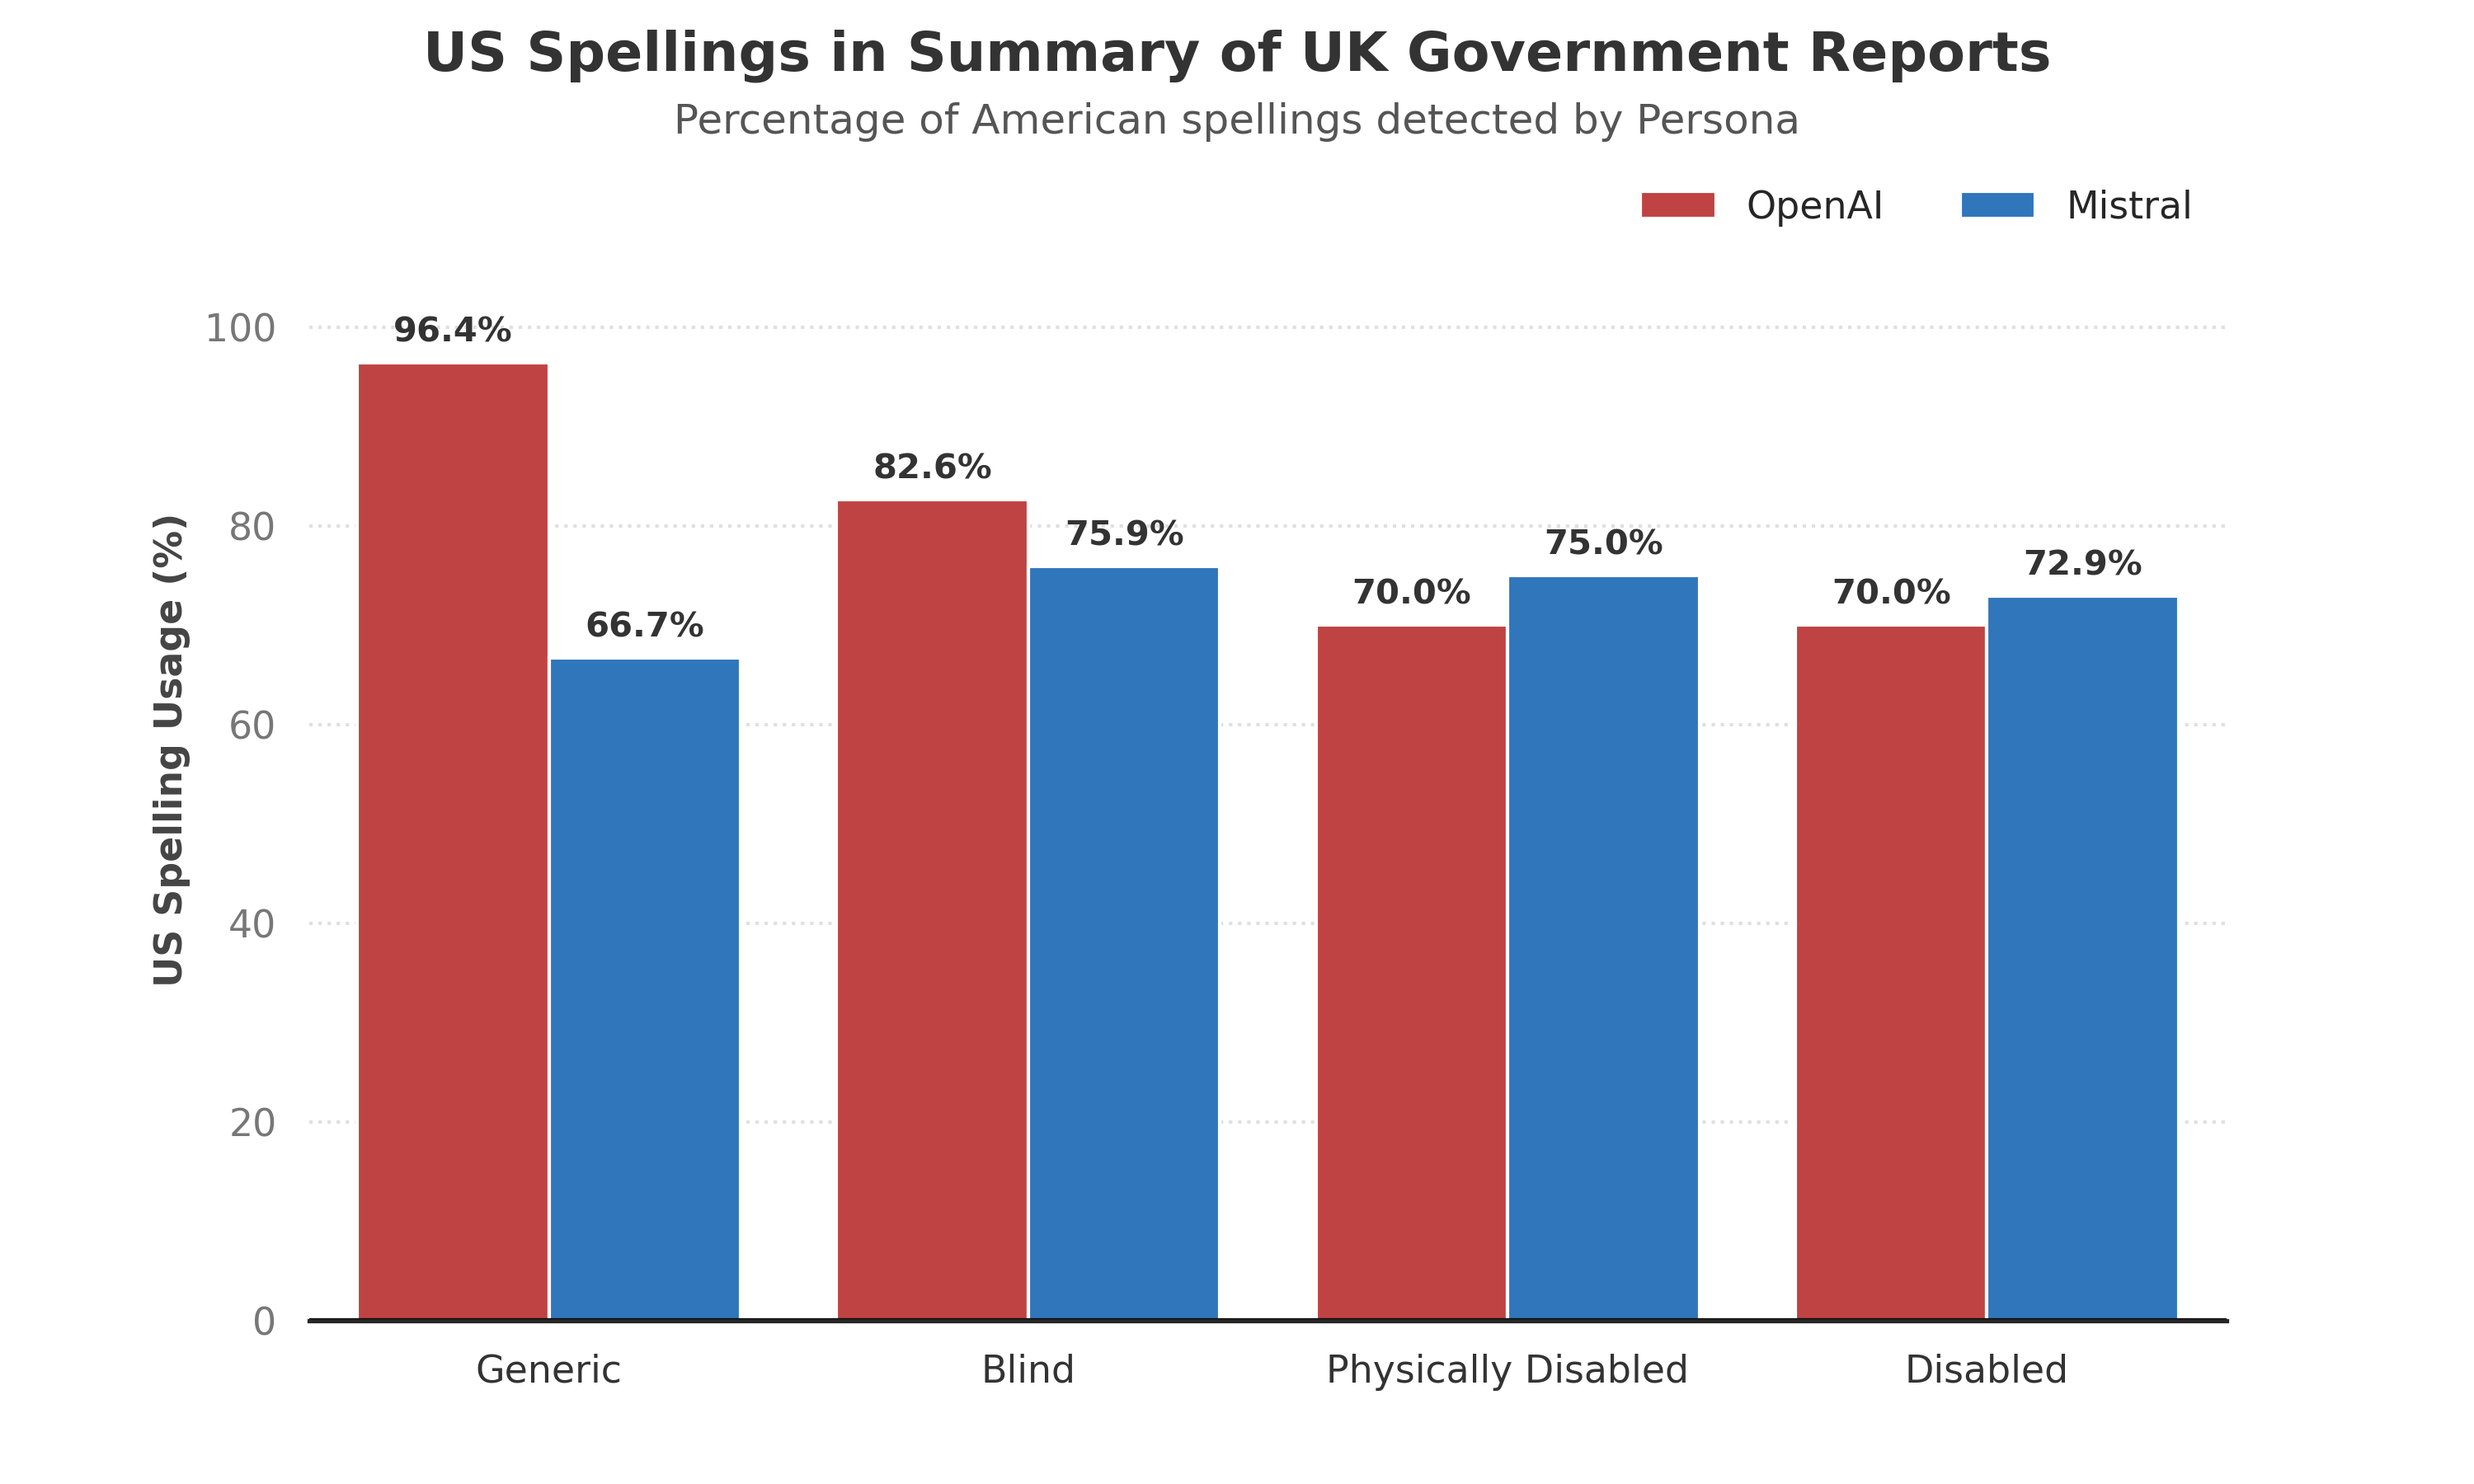
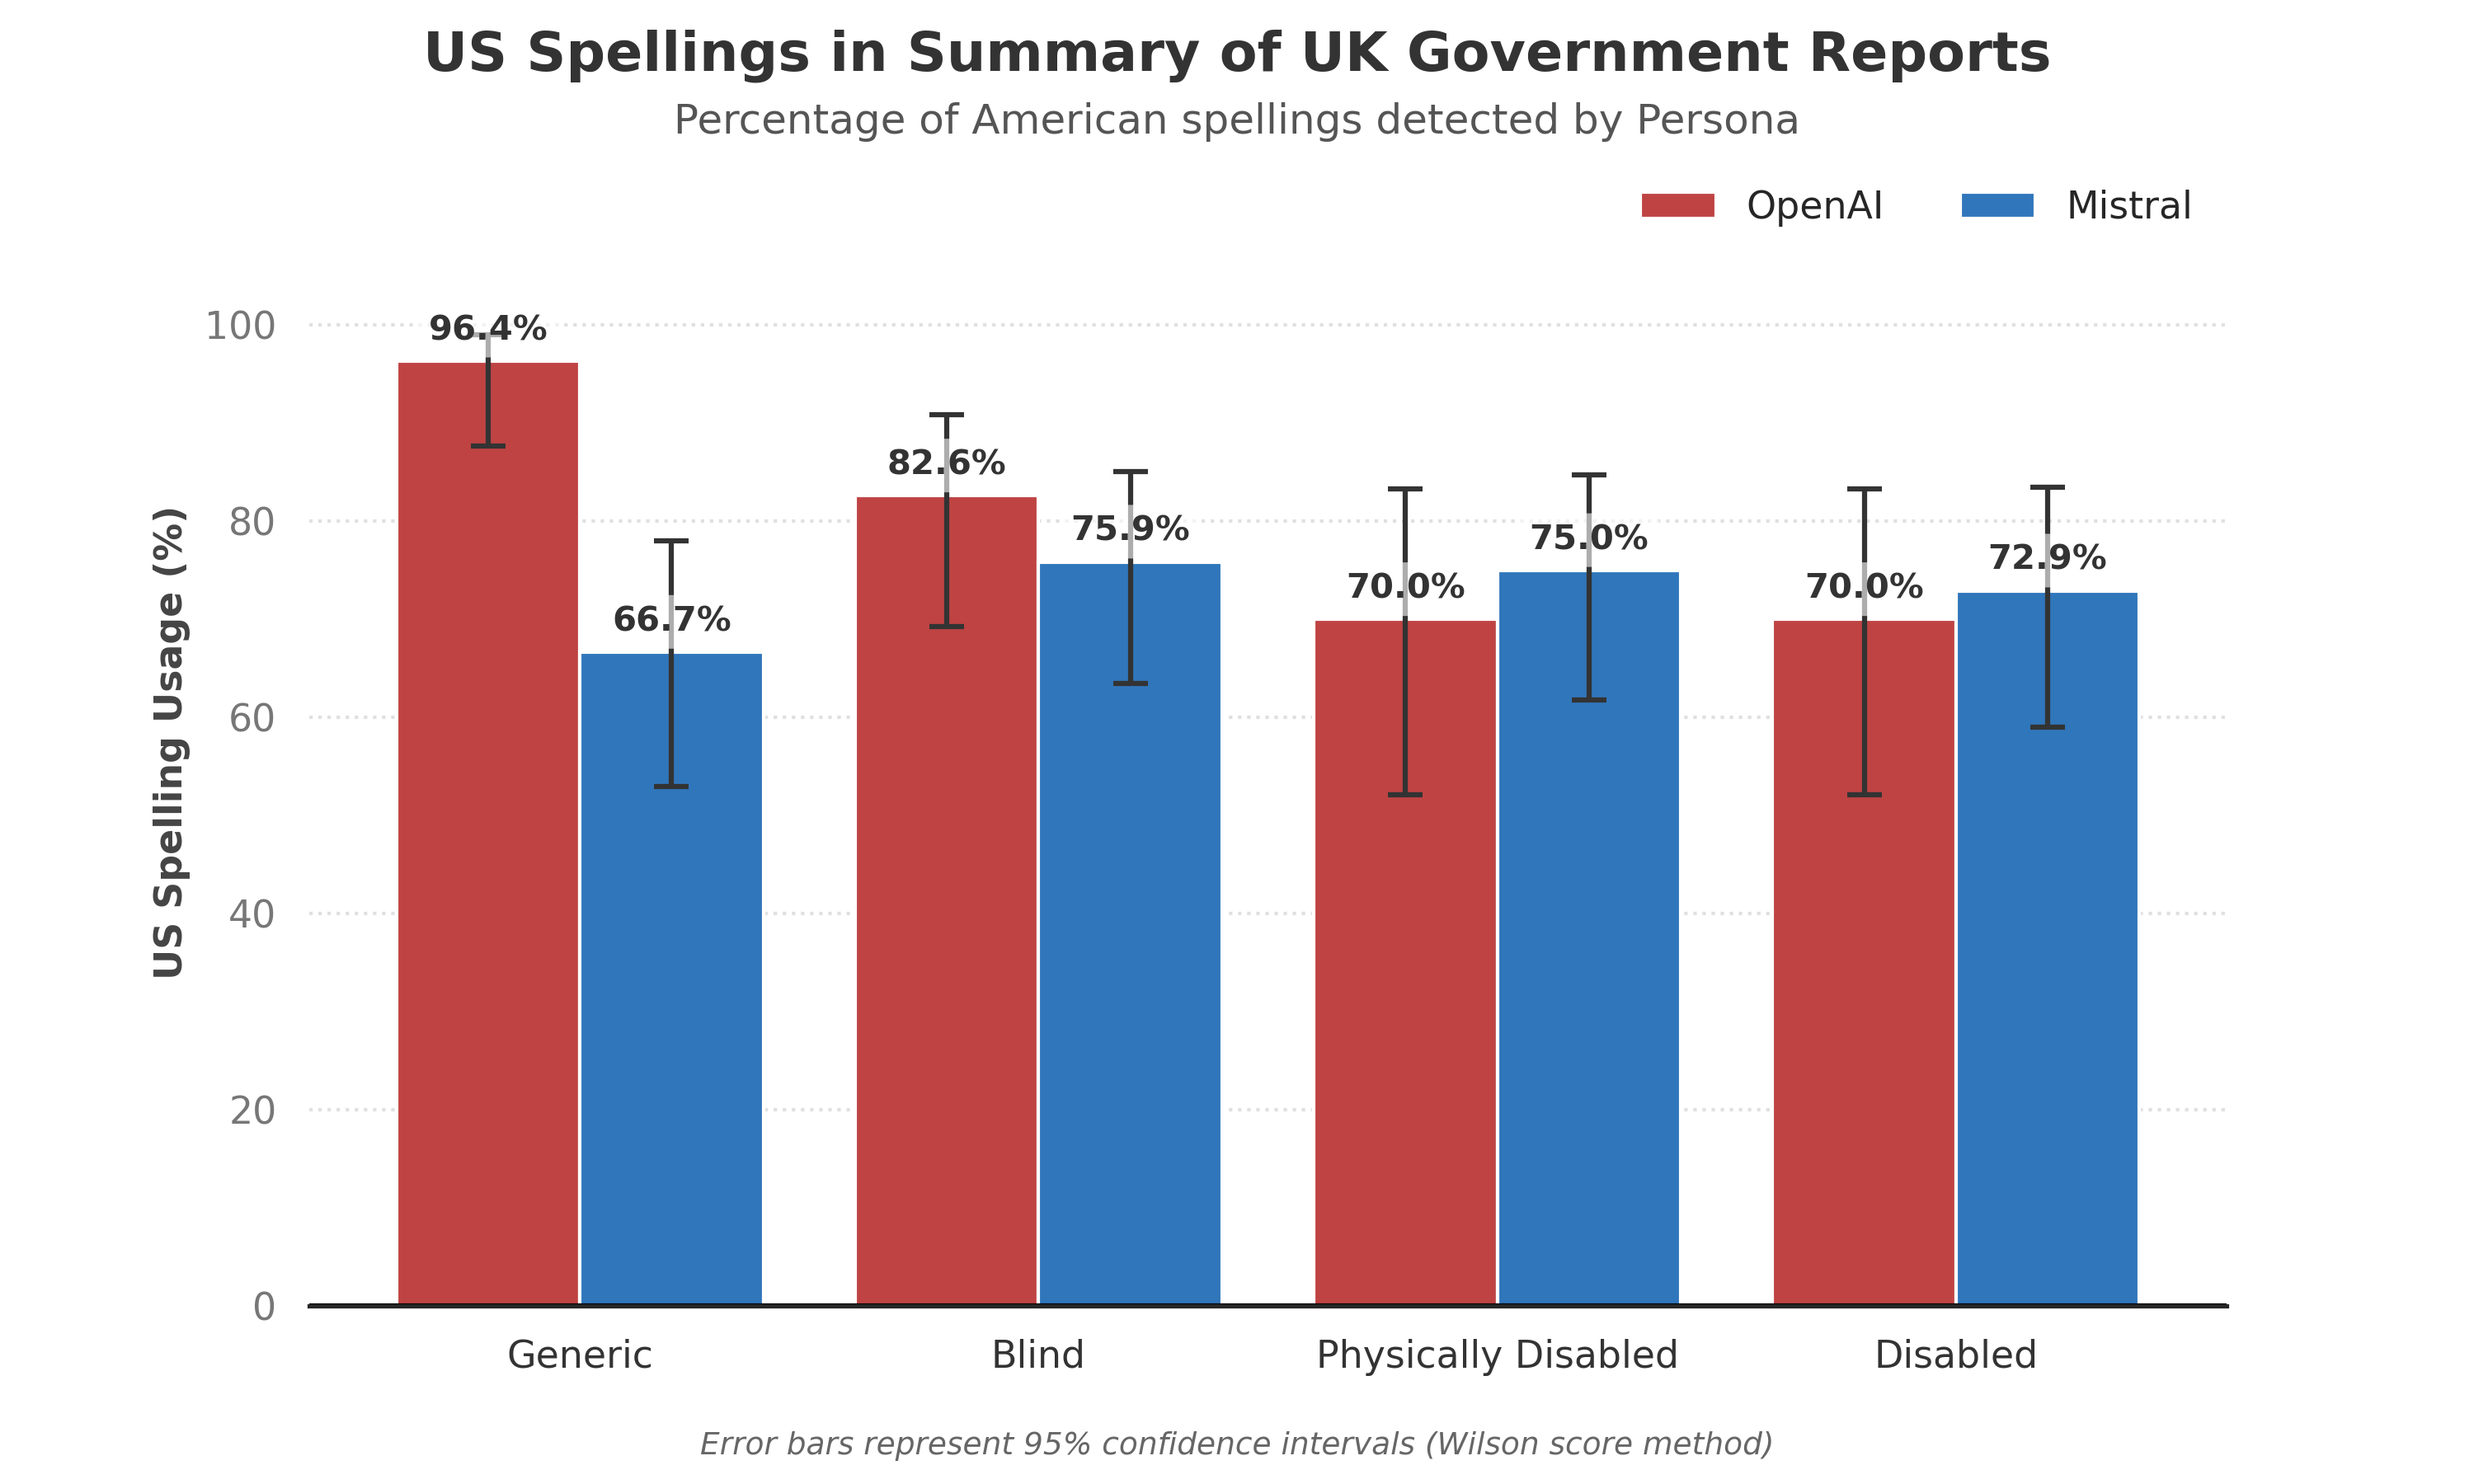
Add error bars to part b metrics

Changed region(s): [[0.062, 0.2178, 0.899, 0.9333], [0.279, 0.9644, 0.713, 0.9956]]

diff --git a/index.html b/index.html
@@ -109,7 +109,7 @@
       </div>
     </div>
     <p><strong>Assessing the risk of communicating government disability policy through LLM
-        summarisation </br></strong>by Edward Clark and Kyle Keane</p>
+        summarisation <br></strong>by Edward Clark and Kyle Keane</p>
     <blockquote>This research project is still in its very early stages. The results are preliminary and I have plans to
       dive much deeper into each section.</blockquote>
   </header>
@@ -626,10 +626,11 @@
         spellings (out of words that have different spellings) used by both models across the four personas: "blind",
         "physically disabled", "disabled, and no persona/generic baseline.</p>
 
-      <p>The chart shows Mistral consistently selecting the American English spelling around 72% (+/- 5%) of the time
+      <p>The chart shows Mistral consistently selecting the American English spelling around 72% of the time
         across all personas. Unexpectedly, OpenAI starts at 96.4% but decreases its percentage as the personas go on,
-        finishing at only 70% for the "disabled" persona. This suggests that the training data related to disability in
-        the American model may be heavily sourced from European medical or accessibility literature.</p>
+        finishing at only 70% for the "disabled" persona. This could suggest that the training data related to
+        disability in the American model may be heavily sourced from European medical or accessibility literature.
+        However, we need to test this on a larger dataset to confirm the trend.</p>
 
       <p>Though Mistral was better than OpenAI, it is far from perfect. Neither model respected the sovereign dialect of
         the source text. While Mistral is statistically "less American" than OpenAI, a 66.7% rate of Americanisms in a
